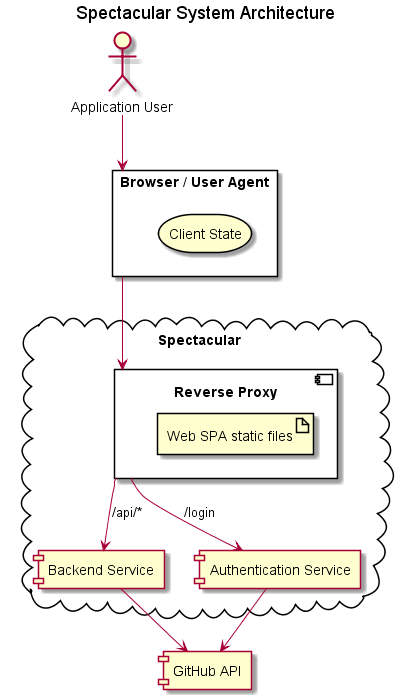
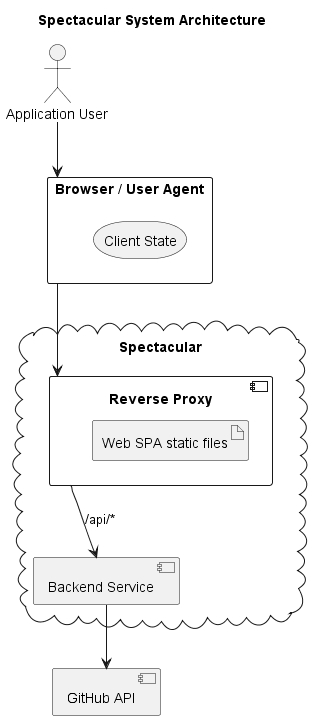
remove auth service from architecture docs

Changed region(s): [[0.0285, 0.0, 0.9684, 1.0], [0.1424, 0.9313, 0.1709, 0.9914]]

diff --git a/docs/architecture.md b/docs/architecture.md
@@ -1,12 +1,11 @@
 # System Architecture
-The systems is built up of 3 core separately deployable components:
+The systems is built up of 2 separately deployable components:
 - The [Web UI](#web-ui) frontend component that handles:
   - The bundling of the web UI single page application (SPA) files
   - And the serving of web requests to the web UI bundled files and backend services
-- The [Backend Service](#backend-service) backend component that drives much of the Spectacular features and is invoked via a RESTful API
-- The [User Authentication Service](#user-authentication-service) backend component that handles the User Login process
+- The [Backend Service](#backend-service) backend component that powers all of the Spectacular features and is invoked via a RESTful API
 
-These 3 components can be seen in the Architecture diagram below:
+These 2 components can be seen in the Architecture diagram below:
 
 ![system architecture diagram](diagrams/system-architecture.png)
 
@@ -21,6 +20,3 @@ Useful links for the `Web UI` component:
 Useful links for the `Backend Service` component:
 - The [backend](../backend) project folder contains the application source code
 - Have a look at the project folder [README](../backend/README.md) for further documentation
-
-## User Authentication Service
-The Authentication Service is implemented using an opensource application called [loginsrv](https://github.com/tarent/loginsrv). For more details please read the [authentication-service](../authentication-service.md) documentation.
